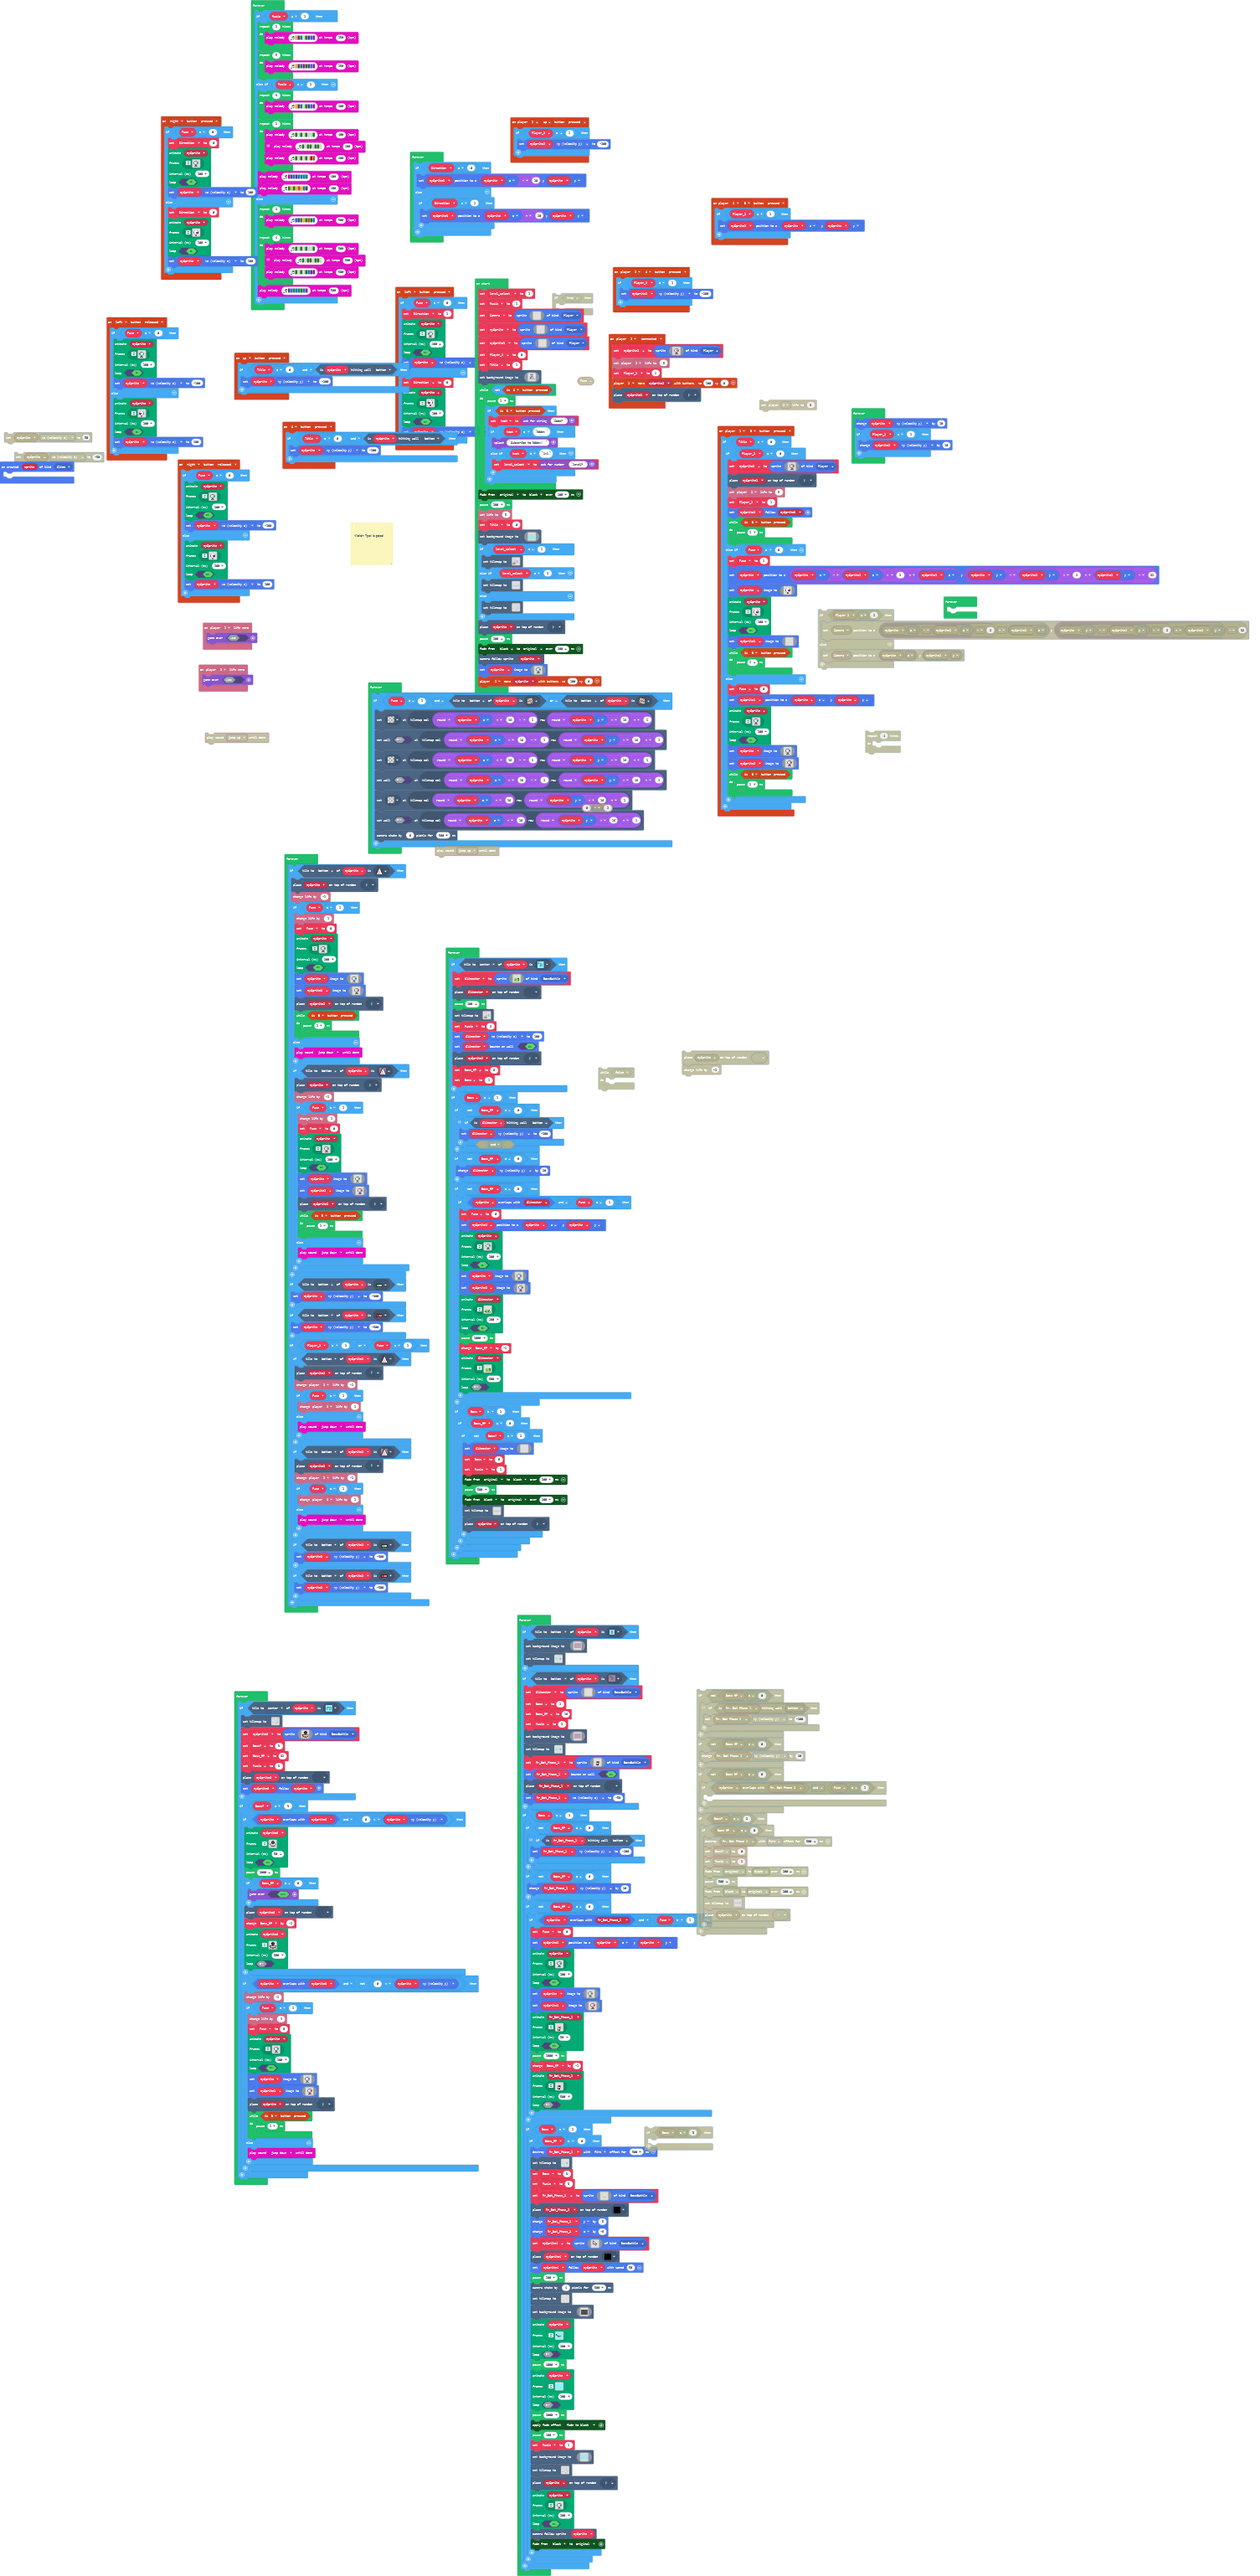
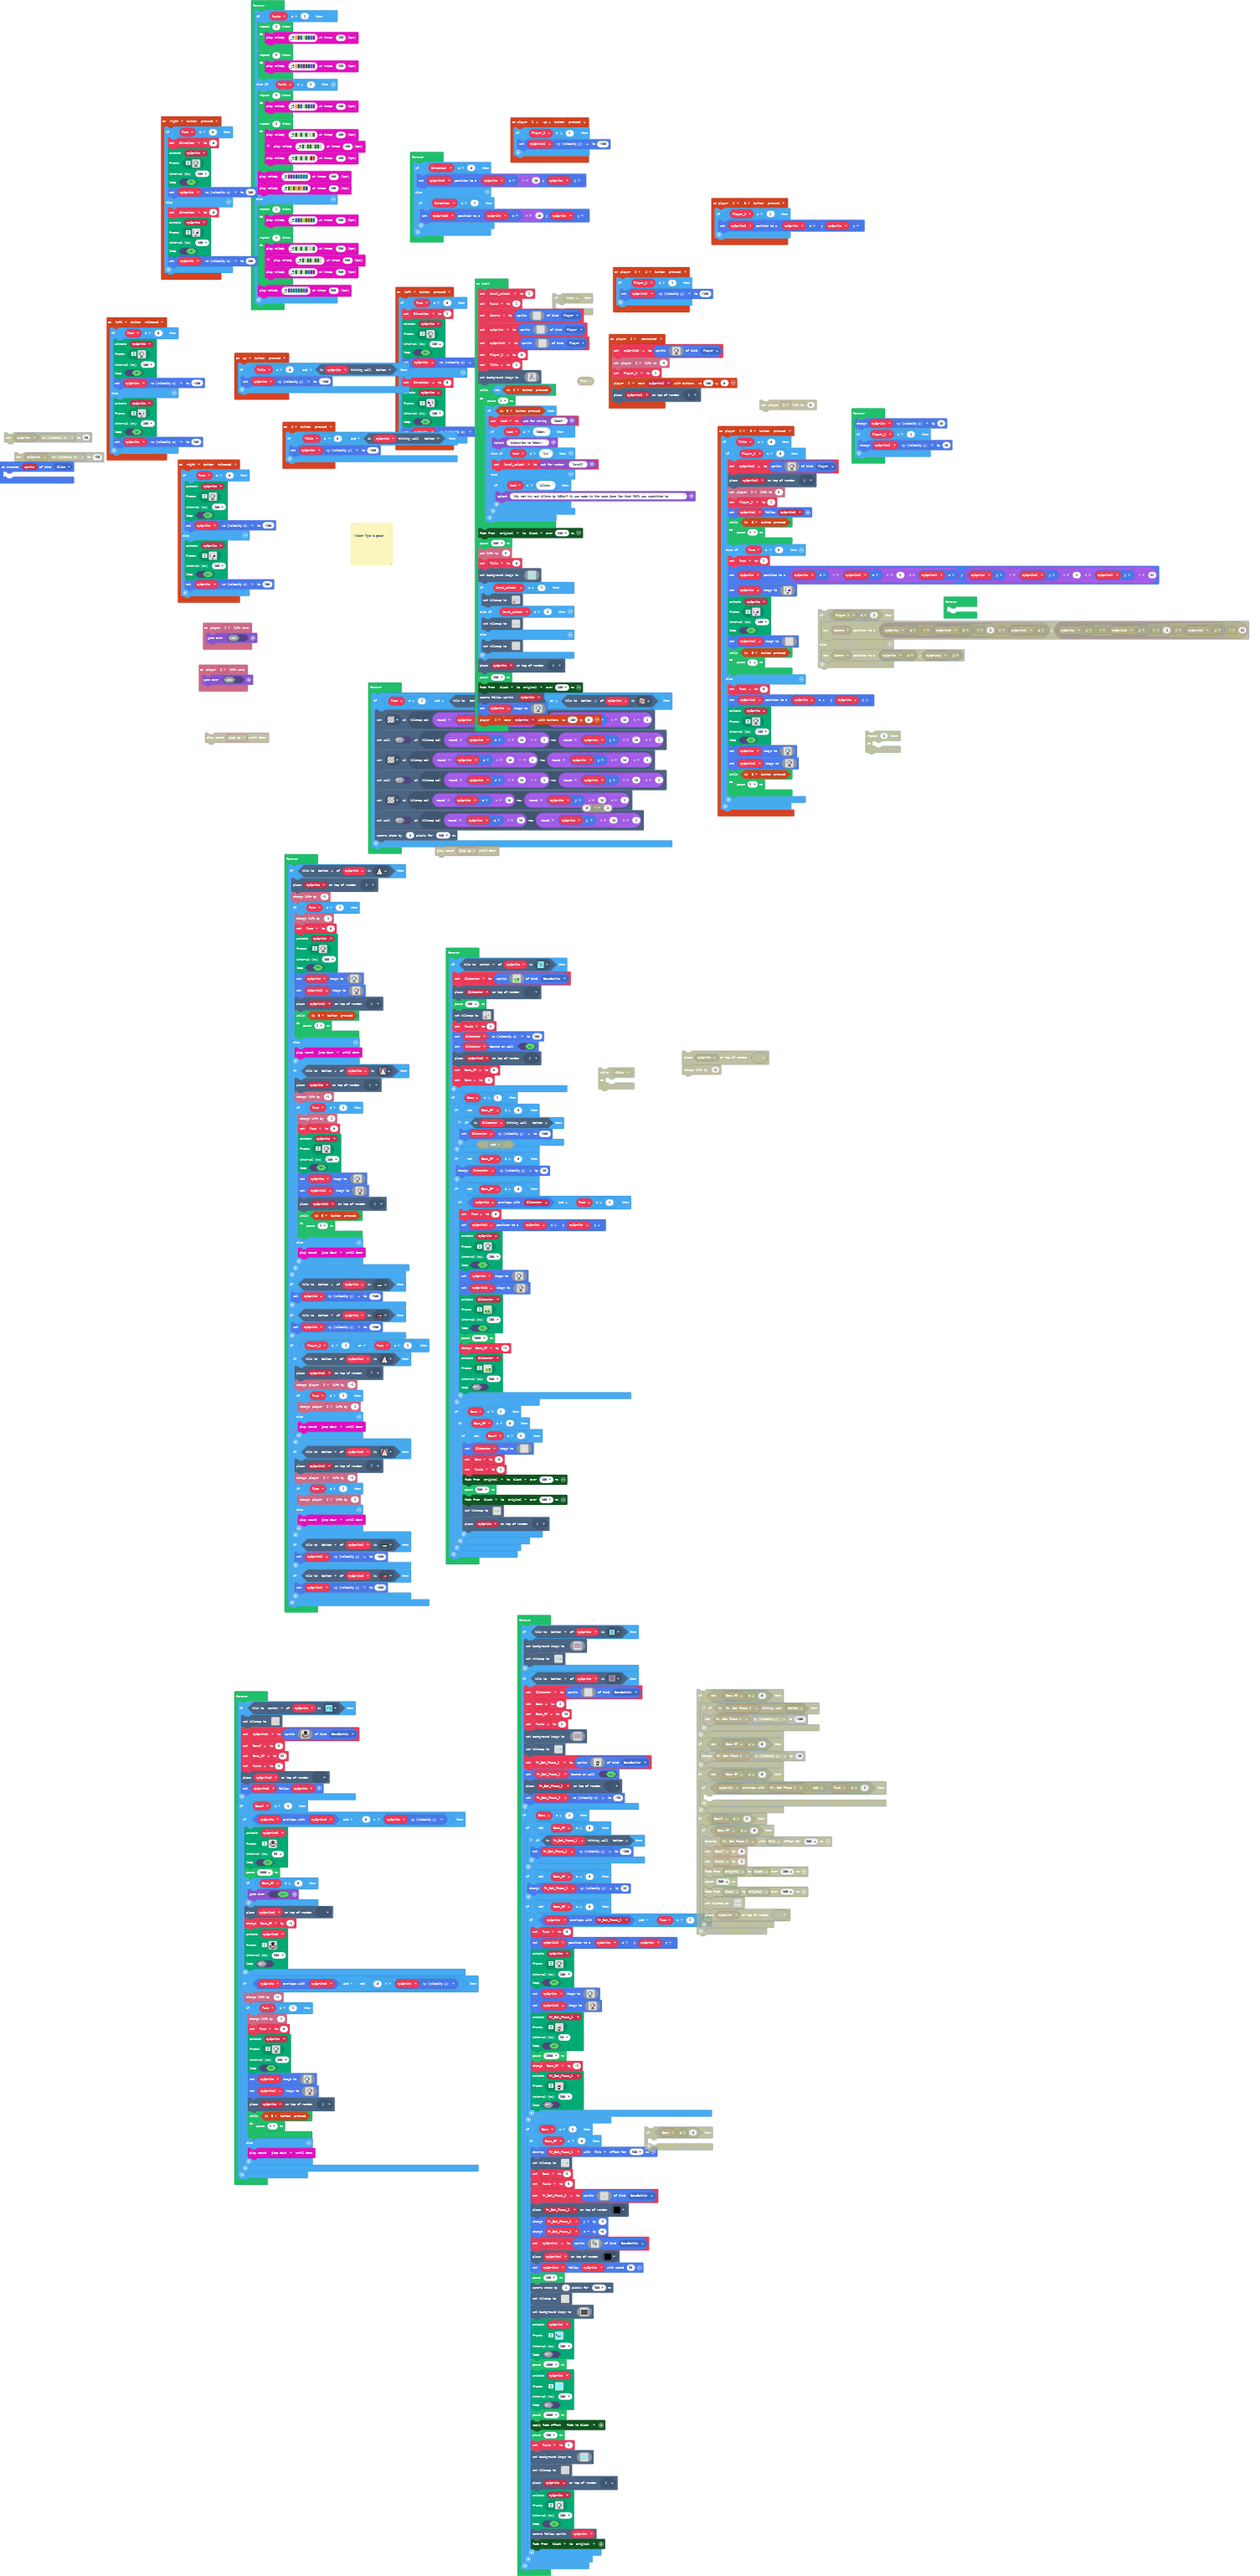
Update main.blocks, main.ts

Changed region(s): [[0.3748, 0.1873, 0.4684, 0.2809]]

diff --git a/main.ts b/main.ts
@@ -1536,6 +1536,10 @@ while (!(controller.A.isPressed())) {
             game.splash("Subscribe to N8dev!")
         } else if (text == "lvl") {
             level_select = game.askForNumber("level?")
+        } else {
+            if (text == "Allete") {
+                game.splash("Why not try out Allete by N8Dev? it was made in the same Game Jam that PUP2 was submitted to")
+            }
         }
     }
 }
